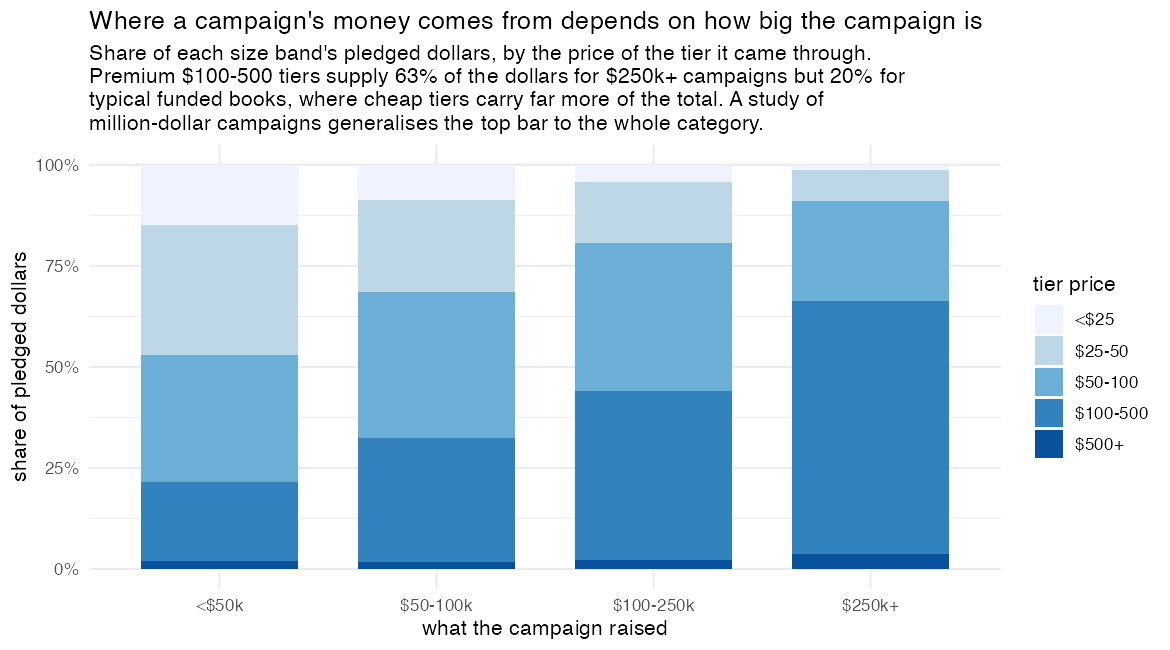
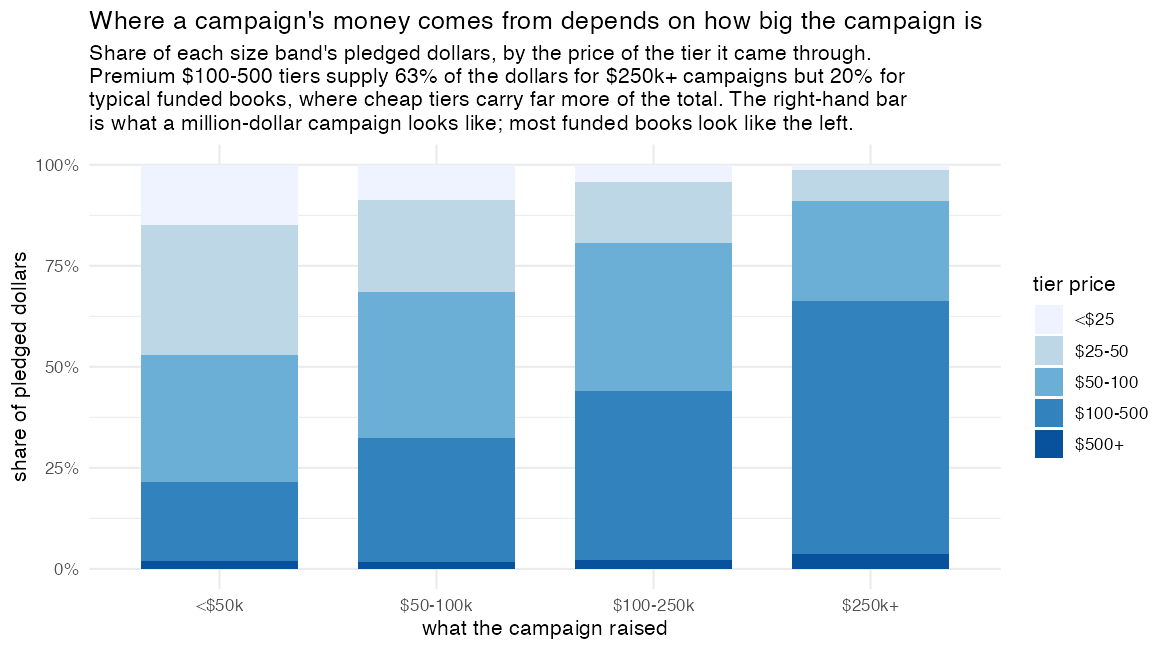
update

Changed region(s): [[0.0615, 0.1231, 0.7692, 0.2154]]

diff --git a/docs/index.html b/docs/index.html
@@ -70,9 +70,11 @@ id="fnref1" role="doc-noteref"><sup>1</sup></a> It found that across
 those mega-projects the high-end “whale” tiers brought in roughly 23% of
 all the money, against under 4% for the cheap entry tiers, and that the
 median whale tier sat at about $478.</p>
-<p>It’s a careful analysis, but fifty-three projects is a small and
-selective sample, all of them extreme success stories. I kept wondering
-about the rest of the ttrpg Kickstarter projects out there.</p>
+<p>That is careful work on data nobody had assembled before, and
+fifty-three million-dollar campaigns is the right sample for a question
+about million-dollar campaigns. What I kept wondering was whether the
+same picture describes the rest of the ttrpg projects on Kickstarter,
+most of which look nothing like those.</p>
 <h2 id="getting-the-data">Getting the data</h2>
 <p>There’s a nice free resource called Web Robots that has been crawling
 Kickstarter roughly once a month since 2014 and posting the results.
@@ -787,8 +789,8 @@ alt="Share of dollars by tier price, across campaign sizes" /></p>
 <p><em>Where each size band’s pledged dollars came from, by the price of
 the tier that carried them. The premium band grows from a fifth of the
 money for typical funded books to nearly two-thirds for the largest
-campaigns. A study of million-dollar projects describes the right-hand
-bar.</em><br />
+campaigns. The right-hand bar is what a million-dollar campaign looks
+like; most funded books look like the left.</em><br />
 <em>Source: Wayback-recovered reward tiers — funded RPG books.</em></p>
 <p>The RPG-book “whale” sits lower than in the original post. Defined
 the same way, as the single most-expensive tier in a campaign, the
@@ -803,9 +805,10 @@ campaign’s money whether the campaign raised $30,000 or $3 million.</p>
 with the campaign, from about <strong>$50</strong> for books under
 $50,000 to <strong>$127</strong> for those above $250,000. In every band
 it lands close to what a printed copy of that book costs, which suggests
-the “sweet spot” is not a psychological price point that creators should
-aim for but simply the tier that has the physical book in it. Reading
-only the megaprojects would put that number near $100 for everyone.</p>
+the “sweet spot” is less a psychological price point creators should aim
+for than simply the tier with the physical book in it. Looking only at
+the largest campaigns would suggest a single figure near $100; across
+the category it is a moving target.</p>
 <p><img src="images/tier_sweetspot_hist.png"
 alt="Price of each project’s top-grossing tier" /></p>
 <p><em>The price of the single highest-revenue tier in each project,

diff --git a/docs/index.md b/docs/index.md
@@ -6,7 +6,7 @@
 
 I recently read [a great guest post on Patchwork Paladin](https://patchworkpaladin.com/2026/05/18/kickstarter-whales-guest-post/) about Kickstarter "whales" by Scipio202, on the reward tiers of fifty-three tabletop RPG campaigns that raised a million dollars.[^whales] It found that across those mega-projects the high-end "whale" tiers brought in roughly 23% of all the money, against under 4% for the cheap entry tiers, and that the median whale tier sat at about $478.
 
-It's a careful analysis, but fifty-three projects is a small and selective sample, all of them extreme success stories. I kept wondering about the rest of the ttrpg Kickstarter projects out there.
+That is careful work on data nobody had assembled before, and fifty-three million-dollar campaigns is the right sample for a question about million-dollar campaigns. What I kept wondering was whether the same picture describes the rest of the ttrpg projects on Kickstarter, most of which look nothing like those.
 
 ## Getting the data
 
@@ -309,12 +309,12 @@ That pooled number, though, is the thing worth being careful about, because it i
 
 ![Share of dollars by tier price, across campaign sizes](images/tier_dollar_share_by_size.png)
 
-*Where each size band's pledged dollars came from, by the price of the tier that carried them. The premium band grows from a fifth of the money for typical funded books to nearly two-thirds for the largest campaigns. A study of million-dollar projects describes the right-hand bar.*\
+*Where each size band's pledged dollars came from, by the price of the tier that carried them. The premium band grows from a fifth of the money for typical funded books to nearly two-thirds for the largest campaigns. The right-hand bar is what a million-dollar campaign looks like; most funded books look like the left.*\
 *Source: Wayback-recovered reward tiers — funded RPG books.*
 
 The RPG-book "whale" sits lower than in the original post. Defined the same way, as the single most-expensive tier in a campaign, the median top-priced tier across these books is about **$300**, versus **$478** among the million-dollar megaprojects. That ceiling tier isn't where the money is made: the **highest-grossing tier of the median book is only about $65**. The expensive tier exists, but few people buy it, and that holds at every size — the top-priced tier collects about 4–6% of its campaign's money whether the campaign raised $30,000 or $3 million.
 
-The tier that does the earning is not a fixed price either. It rises with the campaign, from about **$50** for books under $50,000 to **$127** for those above $250,000. In every band it lands close to what a printed copy of that book costs, which suggests the "sweet spot" is not a psychological price point that creators should aim for but simply the tier that has the physical book in it. Reading only the megaprojects would put that number near $100 for everyone.
+The tier that does the earning is not a fixed price either. It rises with the campaign, from about **$50** for books under $50,000 to **$127** for those above $250,000. In every band it lands close to what a printed copy of that book costs, which suggests the "sweet spot" is less a psychological price point creators should aim for than simply the tier with the physical book in it. Looking only at the largest campaigns would suggest a single figure near $100; across the category it is a moving target.
 
 ![Price of each project's top-grossing tier](images/tier_sweetspot_hist.png)
 
